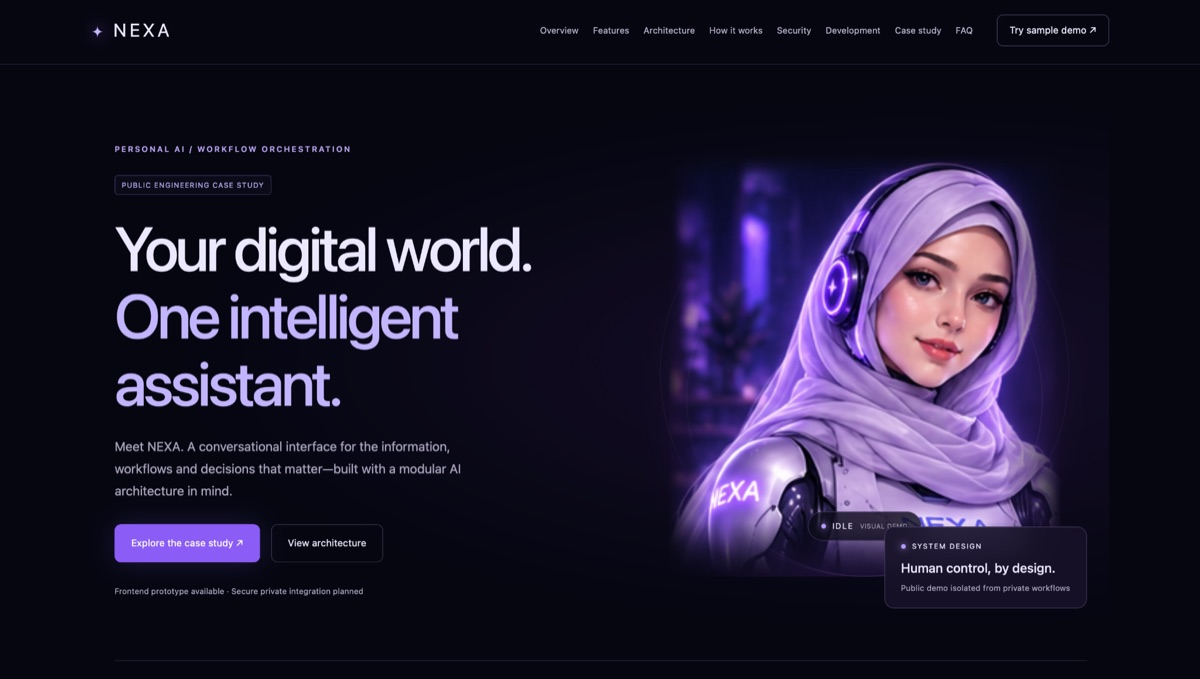
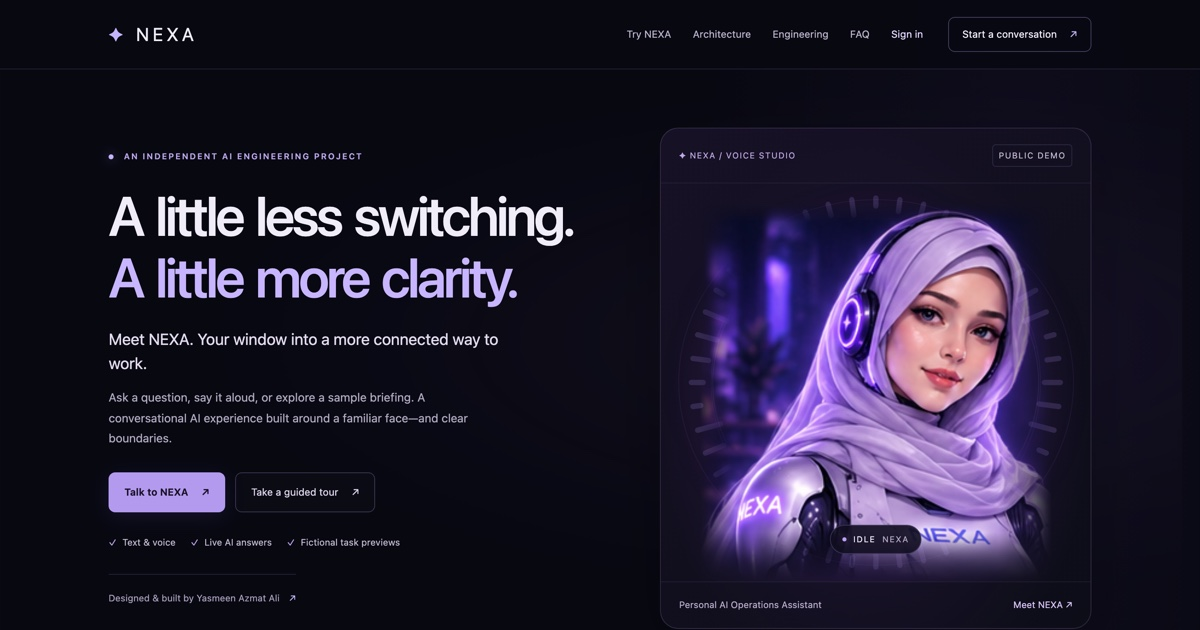
Use a fresh 1200x630 capture of the current hero as the share image
The previous image showed an older version of the site ("Secure private
integration planned"). New capture: production build, 1440px wide, dark,
downscaled to 1200x630 JPEG (134 KB). og:image height and alt updated.

diff --git a/index.html b/index.html
@@ -1,1 +1,1 @@
-<!doctype html><html lang="en"><head><meta charset="UTF-8"/><meta name="viewport" content="width=device-width,initial-scale=1"/><meta name="theme-color" content="#050610"/><meta name="description" content="NEXA — Personal AI Operations Assistant. Explore Yasmeen Azmat Ali’s React/TypeScript interface, n8n architecture and engineering decisions, then try the sample demo, Live AI chat and browser voice."/><link rel="icon" href="/favicon.svg" type="image/svg+xml"/><link rel="apple-touch-icon" href="/apple-touch-icon.png"/><meta property="og:title" content="NEXA — Personal AI Operations Assistant"/><meta property="og:description" content="Agentic AI & workflow orchestration. Explore the interface, architecture, fictional samples and Live AI with browser voice."/><meta property="og:image" content="https://nexa-public.netlify.app/social-preview.jpg"/><meta property="og:image:alt" content="NEXA engineering case study with the lavender-hijab assistant"/><meta property="og:image:width" content="1200"/><meta property="og:image:height" content="679"/><meta name="twitter:card" content="summary_large_image"/><meta property="og:type" content="website"/><title>NEXA | Yasmeen Azmat Ali — AI Engineering Case Study</title><link rel="canonical" href="https://nexa-public.netlify.app/"/><meta property="og:url" content="https://nexa-public.netlify.app/"/></head><body><div id="root"></div><script type="module" src="/src/main.tsx"></script></body></html>
+<!doctype html><html lang="en"><head><meta charset="UTF-8"/><meta name="viewport" content="width=device-width,initial-scale=1"/><meta name="theme-color" content="#050610"/><meta name="description" content="NEXA — Personal AI Operations Assistant. Explore Yasmeen Azmat Ali’s React/TypeScript interface, n8n architecture and engineering decisions, then try the sample demo, Live AI chat and browser voice."/><link rel="icon" href="/favicon.svg" type="image/svg+xml"/><link rel="apple-touch-icon" href="/apple-touch-icon.png"/><meta property="og:title" content="NEXA — Personal AI Operations Assistant"/><meta property="og:description" content="Agentic AI & workflow orchestration. Explore the interface, architecture, fictional samples and Live AI with browser voice."/><meta property="og:image" content="https://nexa-public.netlify.app/social-preview.jpg"/><meta property="og:image:alt" content="NEXA home page: “A little less switching. A little more clarity.” beside the NEXA assistant in a lavender hijab and purple headphones"/><meta property="og:image:width" content="1200"/><meta property="og:image:height" content="630"/><meta name="twitter:card" content="summary_large_image"/><meta property="og:type" content="website"/><title>NEXA | Yasmeen Azmat Ali — AI Engineering Case Study</title><link rel="canonical" href="https://nexa-public.netlify.app/"/><meta property="og:url" content="https://nexa-public.netlify.app/"/></head><body><div id="root"></div><script type="module" src="/src/main.tsx"></script></body></html>
